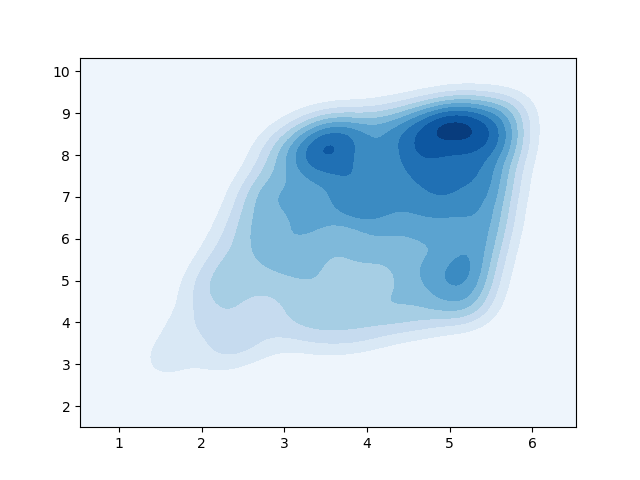
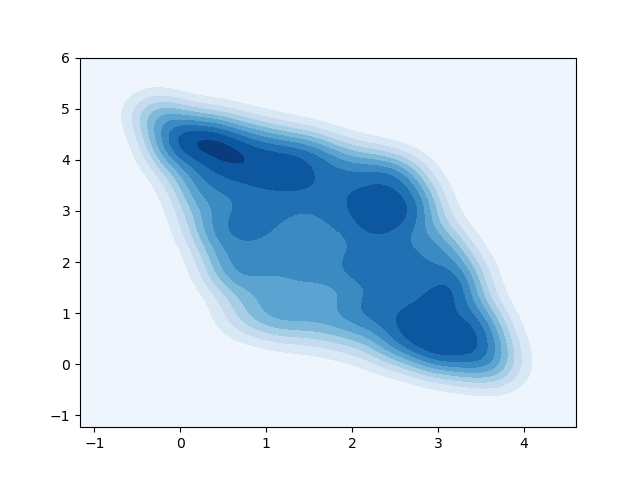
corrected dual

diff --git a/train_ot.py b/train_ot.py
@@ -30,7 +30,7 @@ class Synthetic(data.Dataset):
         self.n = n
         np.random.seed(0)
         #self.y = np.random.normal(loc=0, scale=1, size=(self.n, 2))
-        self.y = np.random.multivariate_normal(mean=[2, 3], cov=np.array([[3,2],[2,5]]), size=(self.n))
+        self.y = np.random.multivariate_normal(mean=[2, 3], cov=np.array([[3,-2],[-2,5]]), size=(self.n))
 
         #torch.manual_seed(0)
         #self.u = torch.rand(self.n, args.dims)
@@ -209,12 +209,15 @@ def train(net, optimizer, loader, args):
             loss = 0
             Y = batch
             #Y = torch.matmul(Y, W)
+            U = torch.empty(size=(args.batch_size, args.dims, args.m))
+            Y_hats = torch.empty(size=(args.batch_size, 1, args.m))
             for j in range(args.m):
                 u = torch.rand(size=(args.batch_size, args.dims))
-                #u_x = torch.ones(size=(args.batch_size, args.dims)) * torch.tensor([0.9, 0.1])
+                U[:, :, j] = u
                 Y_hat = net(u)
-                loss += dual(U=u, Y_hat=Y_hat, Y=Y) #+ 0.3*MMD(Y_hat, Y)
-            loss /= args.m
+                Y_hats[:, :, j] = Y_hat
+            loss += dual(U=U, Y_hat=Y_hats, Y=Y)
+            #loss /= args.m
             loss.backward()
             '''
             for p in list(net.parameters()):

diff --git a/ot_modules/dual.py b/ot_modules/dual.py
@@ -4,6 +4,21 @@ def dual(U, Y_hat, Y, eps=1):
     loss = torch.mean(Y_hat)
     U = U.unsqueeze(1)
     Y = Y.unsqueeze(-1)
+    psi = torch.empty(Y_hat.shape)
+    for i in range(Y_hat.shape[-1]):
+        mm = torch.bmm(U[:, :, :, i], Y).squeeze(-1)
+        psi[:, :, i] = mm - Y_hat[:, :, i]
+    psi = psi.permute(2, 0, 1)
+    sup, _ = torch.max(psi, dim=0)
+    loss += torch.mean(sup)
+    l = torch.exp(psi-sup/eps)
+    loss += eps*torch.mean(l)
+    return loss
+
+def _dual(U, Y_hat, Y, eps=1): #dual w/o calculating the sup in psi and minimizing psi.
+    loss = torch.mean(Y_hat)
+    U = U.unsqueeze(1)
+    Y = Y.unsqueeze(-1)
     psi = torch.bmm(U, Y).squeeze(-1) - Y_hat
     #loss += torch.max(psi)
     #return loss
